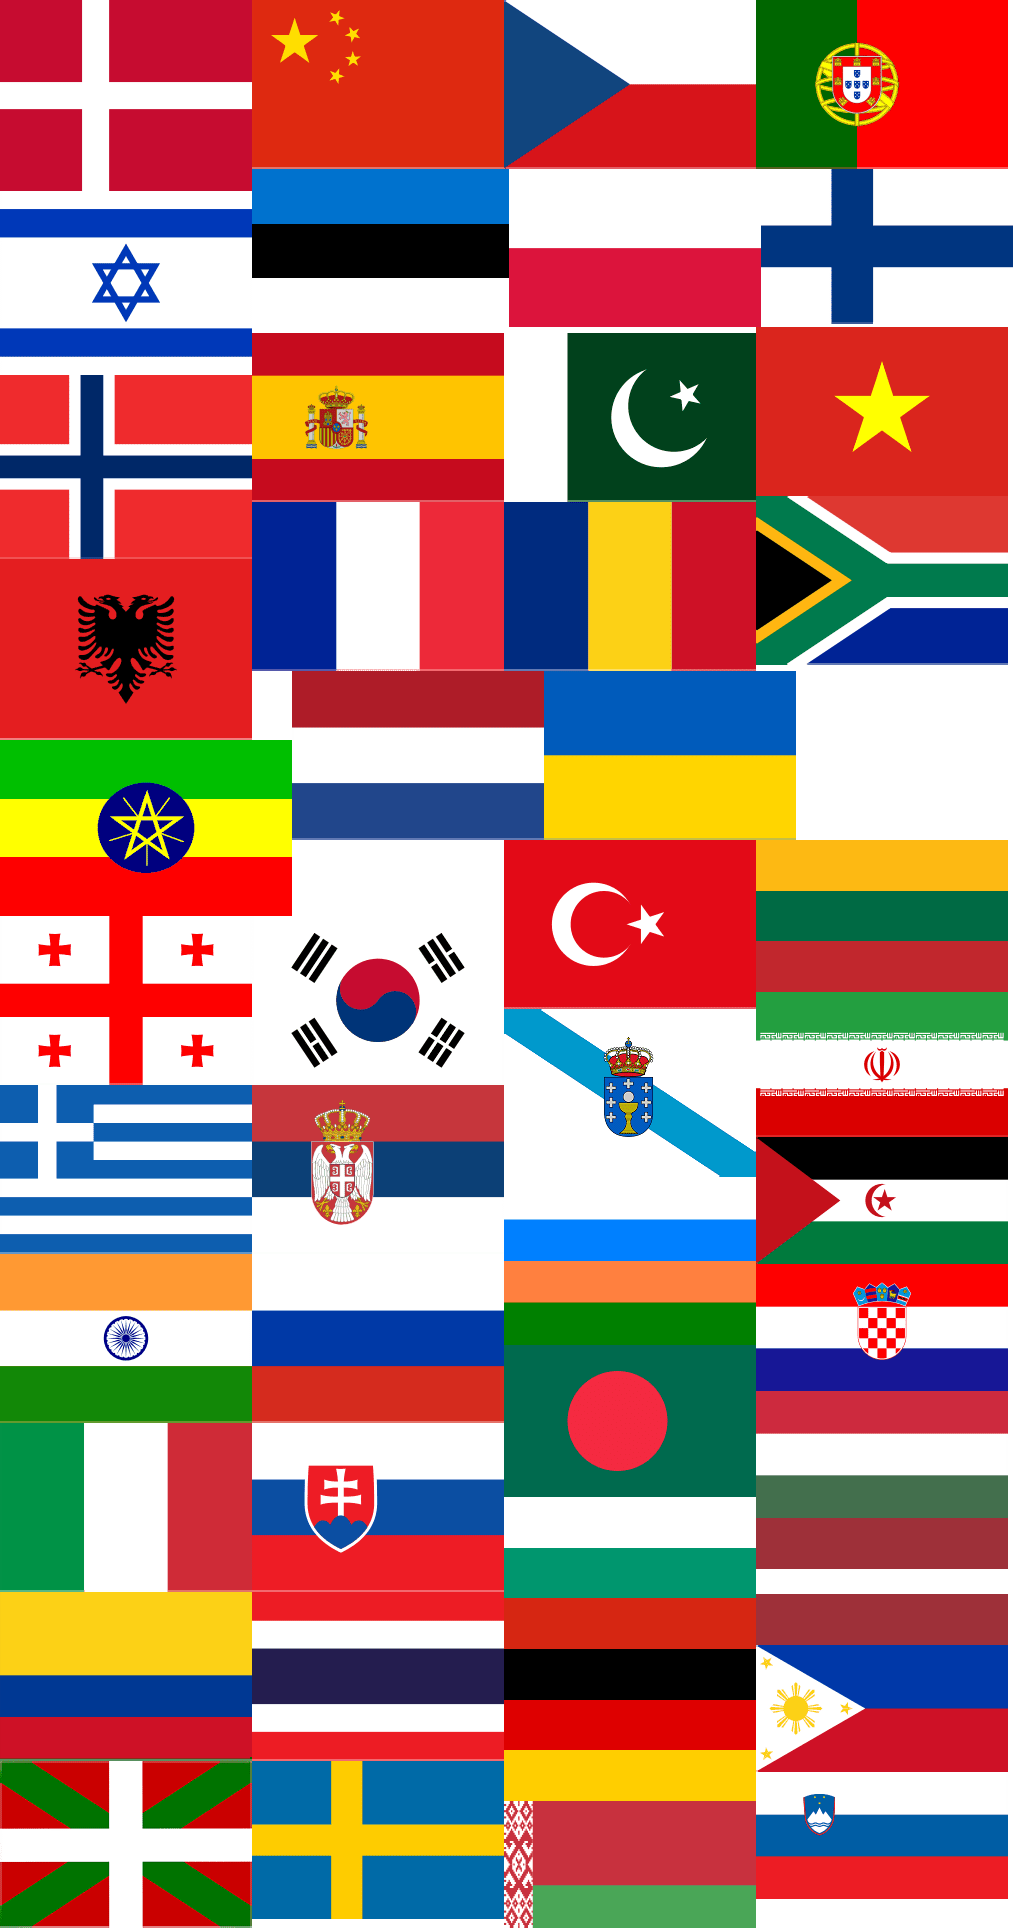
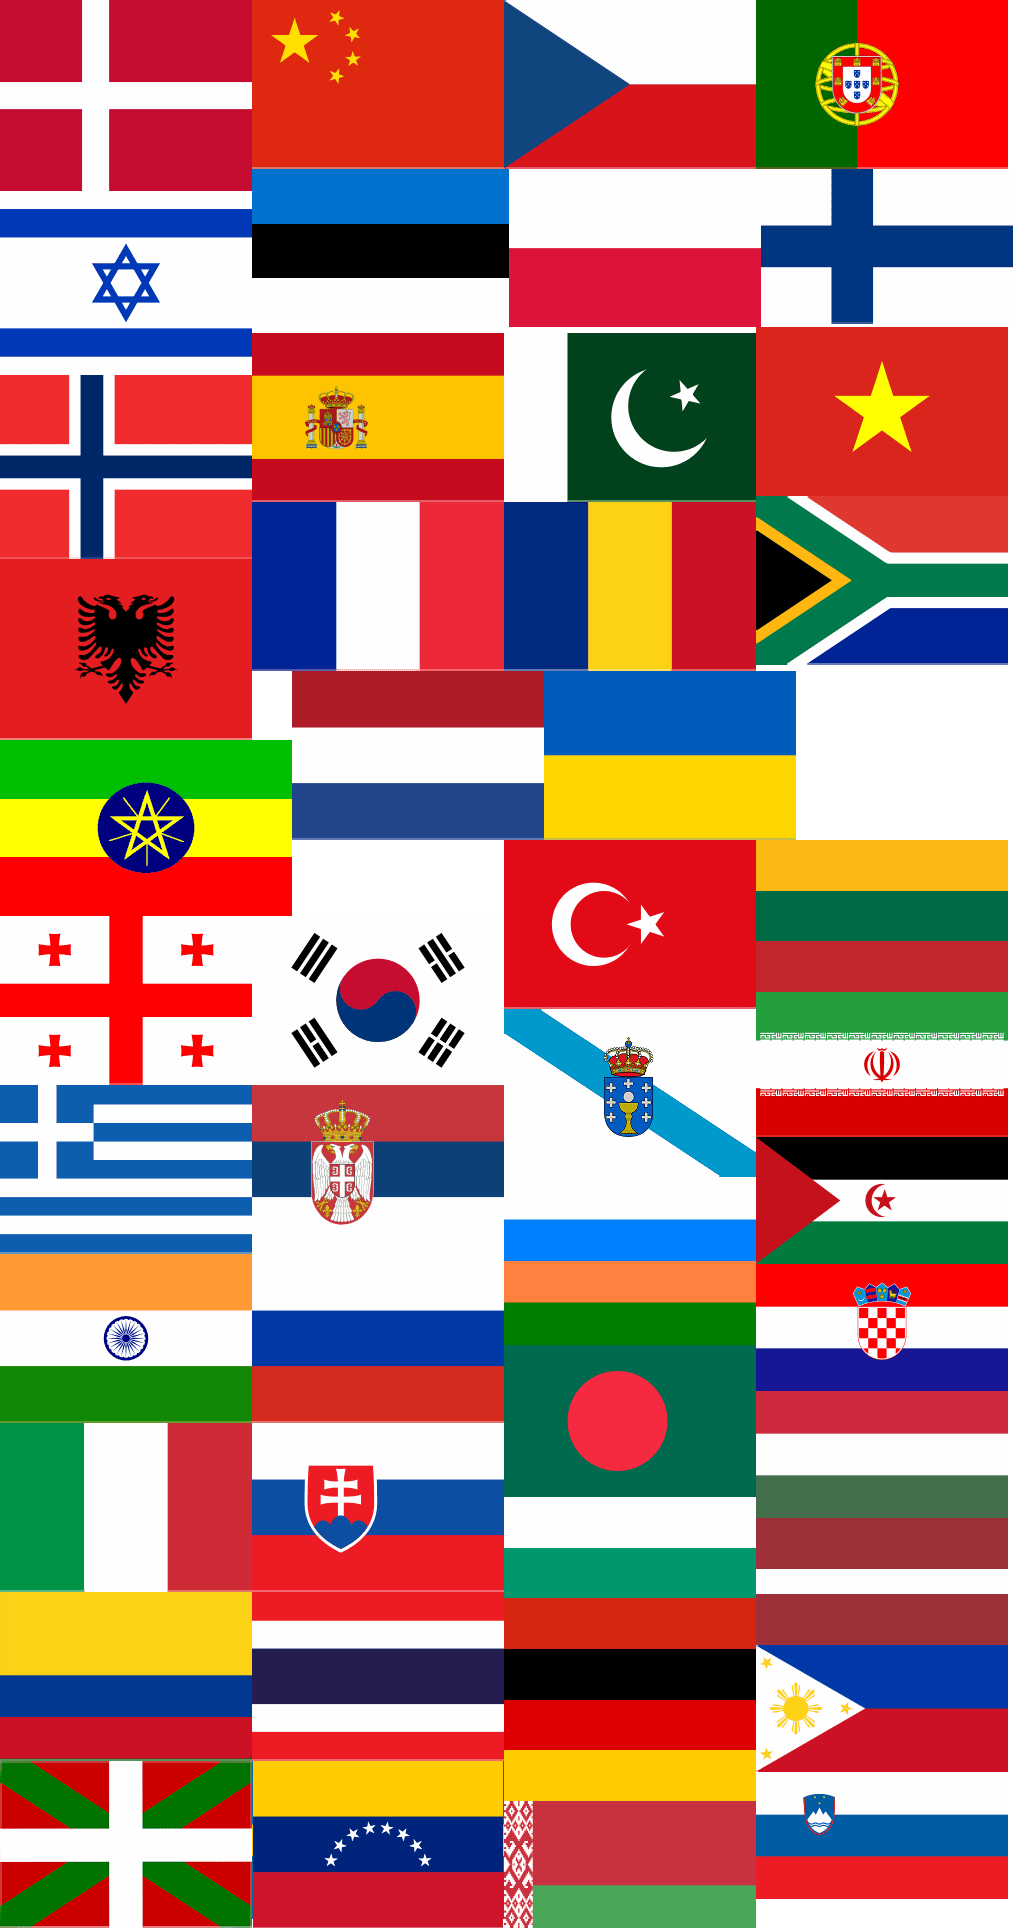
flags

Changed region(s): [[0.2448, 0.9025, 0.5202, 1.0]]

diff --git a/wordbattle/src/sprites/Flags.js b/wordbattle/src/sprites/Flags.js
@@ -29,8 +29,8 @@ export var flags = {
 	"French": "fr",
 	"Spanish": "es",
 	"Colombia": "ke",
+	"Venezuela": "se",
 	"Georgian": "ge",
-	"Swedish": "se",
 	"German": "de",
 	"Greek": "gr",
 	"Telugu": "te",
@@ -91,4 +91,5 @@ export var languages = {
 	"Hungarian": "hu",
 	"Vietnamese": "vi",
 	"Colombia": "es",
+	"Venezuela": "es",
 };
